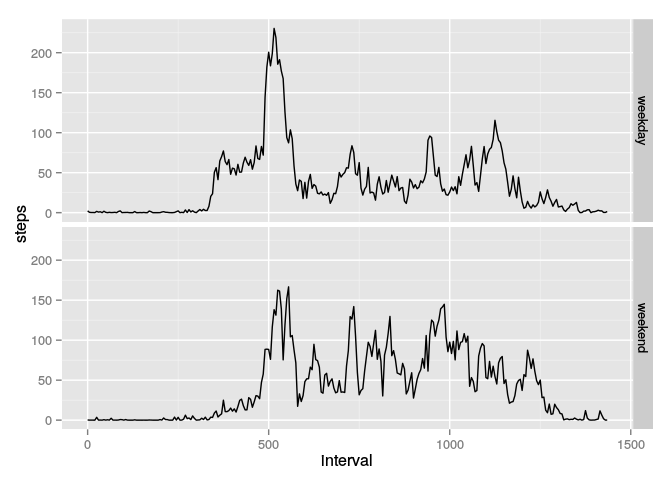
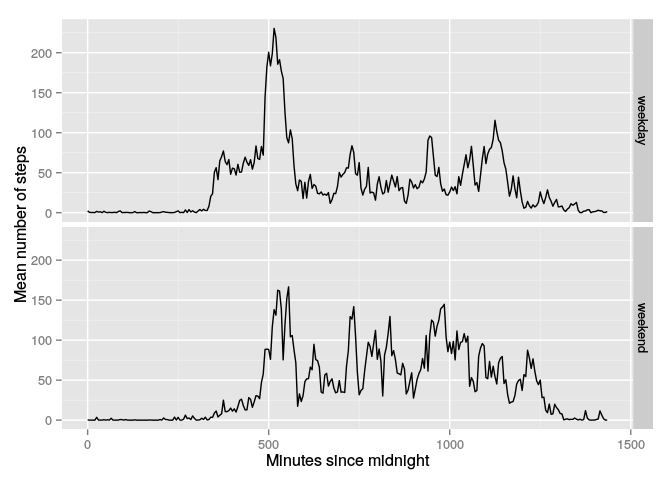
Forgot some axis labels.

Changed region(s): [[0.0, 0.3125, 0.0625, 0.5312], [0.375, 0.9375, 0.6562, 1.0], [0.0, 0.5625, 0.0625, 0.625]]

diff --git a/PA1_template.html b/PA1_template.html
@@ -160,9 +160,10 @@ qplot(imputedStepsByDay$steps, geom=&quot;histogram&quot;, xlab=&quot;Steps&quot
   mutate(dayType = ifelse(as.POSIXlt(date)$wday == 0 | as.POSIXlt(date)$wday == 6, &quot;weekend&quot;, &quot;weekday&quot;)) %&gt;%
   group_by(dayType, interval) %&gt;%
   summarise(steps = mean(steps))
-qplot(data = stepsByIntervalAndDayType, x = interval, y = steps, geom = &quot;line&quot;) +
+qplot(data = stepsByIntervalAndDayType, x = interval, y = steps, geom = &quot;line&quot;,
+  xlab = &quot;Minutes since midnight&quot;, ylab = &quot;Mean number of steps&quot;) +
   facet_grid(dayType ~ .)</code></pre>
[2 lines of base64/hex data omitted]
 </div>
 
 

diff --git a/PA1_template.md b/PA1_template.md
@@ -203,7 +203,8 @@ stepsByIntervalAndDayType <-
   mutate(dayType = ifelse(as.POSIXlt(date)$wday == 0 | as.POSIXlt(date)$wday == 6, "weekend", "weekday")) %>%
   group_by(dayType, interval) %>%
   summarise(steps = mean(steps))
-qplot(data = stepsByIntervalAndDayType, x = interval, y = steps, geom = "line") +
+qplot(data = stepsByIntervalAndDayType, x = interval, y = steps, geom = "line",
+  xlab = "Minutes since midnight", ylab = "Mean number of steps") +
   facet_grid(dayType ~ .)
 ```
 
